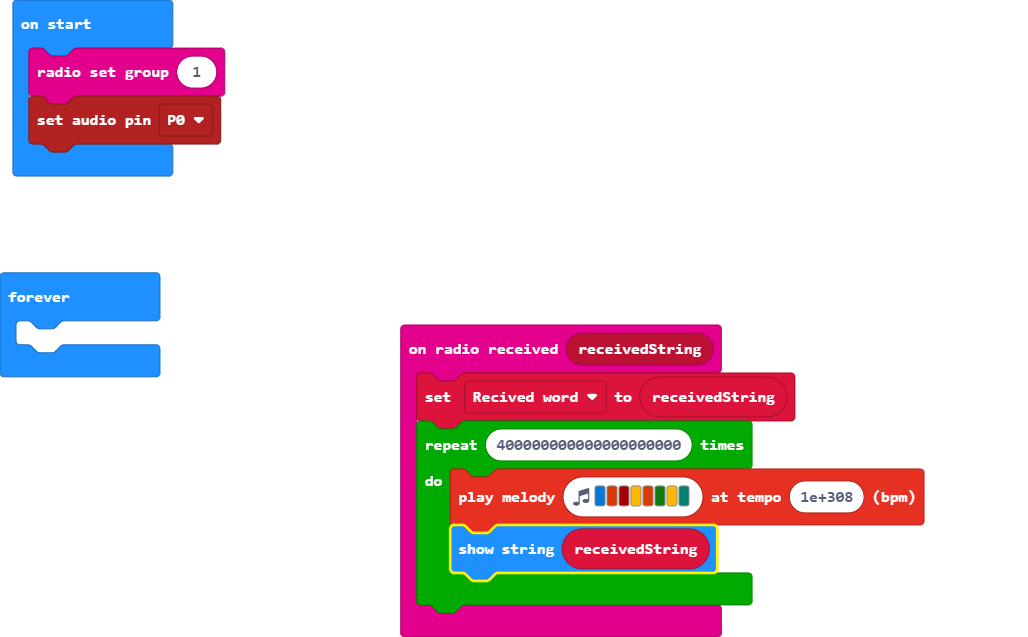
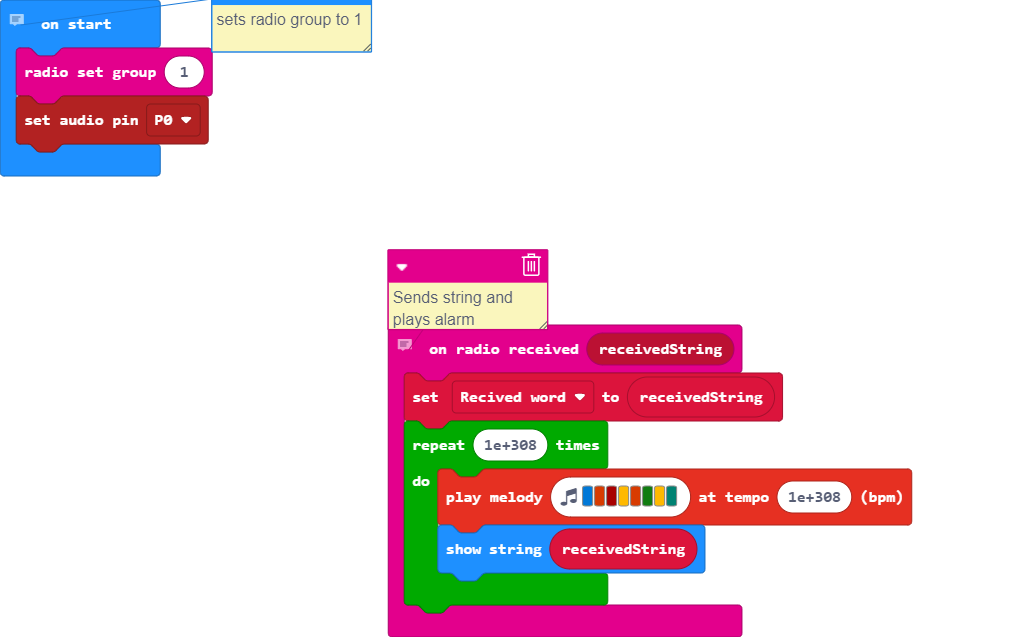
Update pxt.json, main.blocks, main.ts

Changed region(s): [[0.3661, 0.3878, 0.9154, 1.0], [0.0, 0.0, 0.3661, 0.2983], [0.0, 0.4176, 0.1831, 0.5965]]

diff --git a/main.ts b/main.ts
@@ -1,13 +1,12 @@
+// Sends string and plays alarm
 radio.onReceivedString(function (receivedString) {
     Recived_word = receivedString
-    for (let index = 0; index < 400000000000000000000; index++) {
+    for (let index = 0; index < 1e+308; index++) {
         music.playMelody("E B C5 A B G A F ", 1e+308)
         basic.showString(receivedString)
     }
 })
+// sets radio group to 1
 let Recived_word = ""
 radio.setGroup(1)
 pins.setAudioPin(AnalogPin.P0)
-basic.forever(function () {
-	
-})
